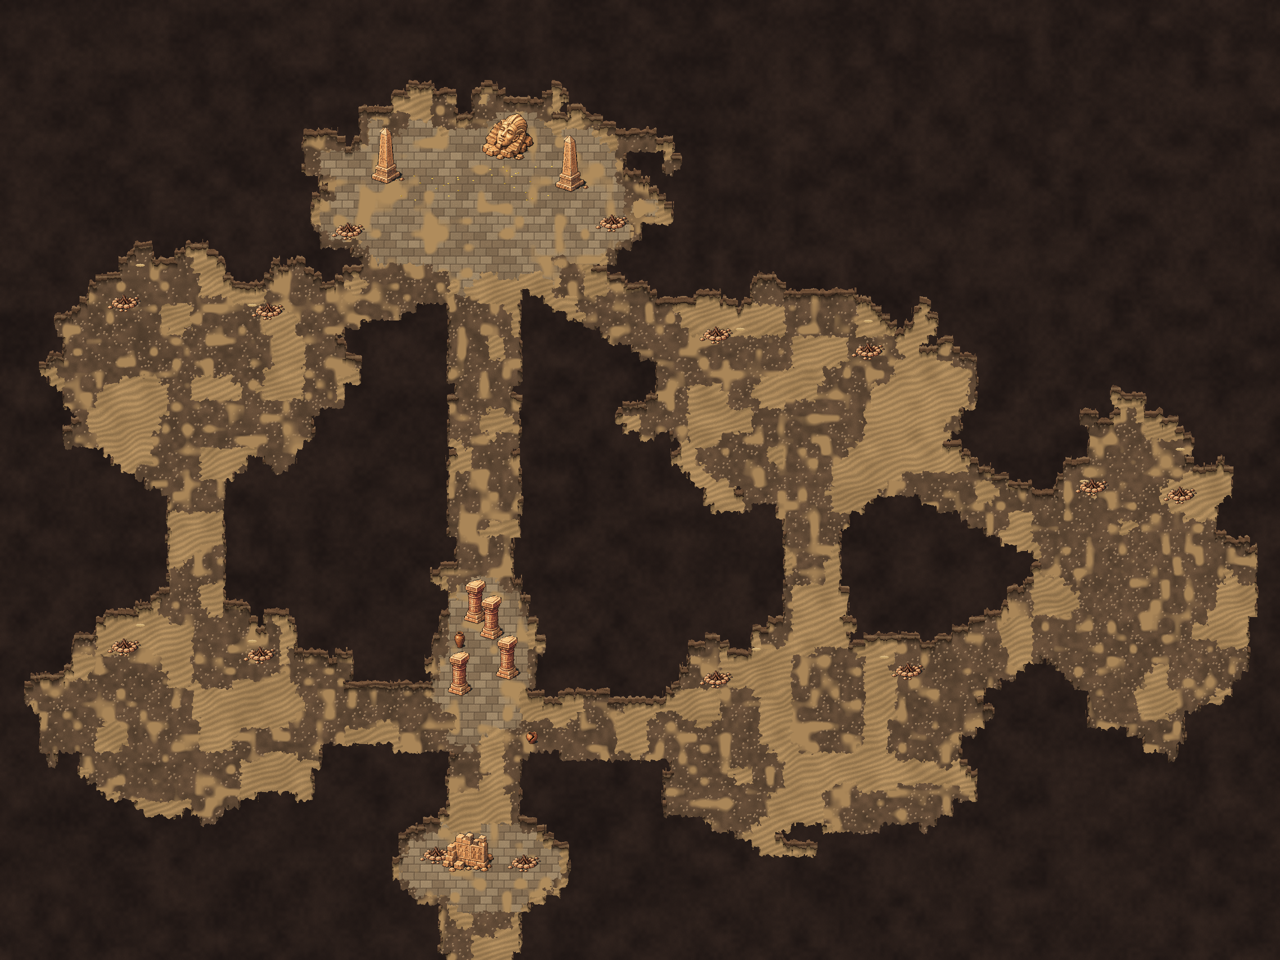
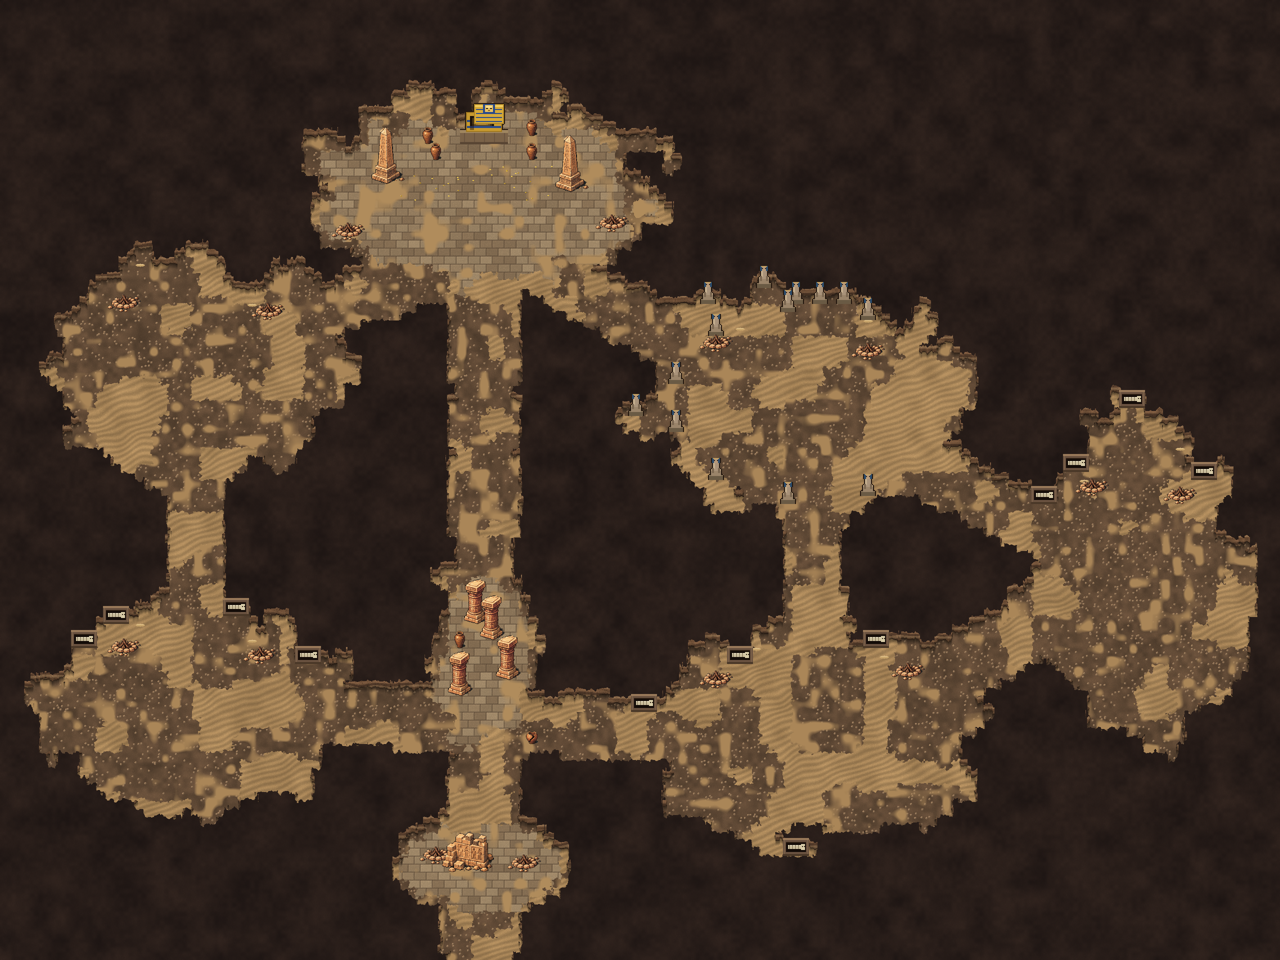
Tumba: nichos com múmias, sarcófago dourado, servos ajoelhados, hieróglifos brilhando, poeira dourada e névoa (em revisão)
Claude-Session: https://claude.ai/code/session_01DxMENvJSpBJLKVoAtLL83c

diff --git a/mapas/Mapa_TumbaReiAreia/tumba_rei_areia.js b/mapas/Mapa_TumbaReiAreia/tumba_rei_areia.js
@@ -115,10 +115,58 @@ function sandKingTomb(){
  /* Corredor dos Nichos: colunas coladas nas paredes e jarros funerários */
  for(const y of[74,86])for(const x of[54,66])aNear('column',x,y,{bw:0,fit:0,road:0,res:0});
  aNear('jar',54,80,{bw:0,road:0});aNear('jar_broken',66,92,{bw:0,road:0});
- /* Salão do Sarcófago: o sarcófago do rei (provisório: a cabeça de estátua) com um raio de luz, obeliscos e braseiros */
- aNear('statue_head',60,16,{fit:2,br:2,road:0});aNear('obelisk',46,20,{bw:1,road:0});aNear('obelisk',74,20,{bw:1,road:0});
- fire(42,30);fire(78,30);fx.beam=[[60*T+8,19*T]];dark.push([60*T+8,17*T,110,.7]);
+ /* Salão do Sarcófago: obeliscos e braseiros (o sarcófago, os vasos e o raio de luz vêm abaixo) */
+ aNear('obelisk',46,20,{bw:1,road:0});aNear('obelisk',74,20,{bw:1,road:0});
+ fire(42,30);fire(78,30);
  for(let k=0;k<30;k++){const x=(50+hq(k,201)*20)*T,y=(20+hq(k,202)*5)*T;og.fillStyle=hq(k,203)<.5?'#e8c040':'#b08820';og.fillRect(x|0,y|0,3,2);og.fillStyle='#fff0a0';og.fillRect(x|0,y|0,1,1)}
+ /* ---- desenhos da tumba (provisórios, até a arte do interior chegar): contorno escuro automático ---- */
+ const outl=(c)=>{const q=c.getContext('2d'),w=c.width,h=c.height,d=q.getImageData(0,0,w,h),D=d.data,o=new Uint8ClampedArray(D);
+  for(let y=0;y<h;y++)for(let x=0;x<w;x++){const k=(y*w+x)*4;if(D[k+3])continue;let n=false;
+   for(const [dx,dy] of[[1,0],[-1,0],[0,1],[0,-1]]){const X=x+dx,Y=y+dy;if(X>=0&&Y>=0&&X<w&&Y<h&&D[(Y*w+X)*4+3])n=true}
+   if(n){o[k]=34;o[k+1]=22;o[k+2]=14;o[k+3]=255}}d.data.set(o);q.putImageData(d,0,0);return c};
+ const box=(q,c,x,y,w,h)=>{q.fillStyle=c;q.fillRect(x,y,w,h)};
+ const up2=(c)=>{const [d,,q]=cmCv(c.width*2,c.height*2);q.imageSmoothingEnabled=false;q.drawImage(c,0,0,c.width*2,c.height*2);return d};
+ /* paredes do norte (face de rocha acima do chão) dentro de um salão: tiles de chão com rocha em cima, 3 de largura */
+ const paredes=(k,gap)=>{const h=HALLS[k],L=[];for(let y=2;y<H;y++)for(let x=2;x<W-2;x++){
+   if(Math.hypot((x-h[0])/(h[2]+2),(y-h[1])/(h[3]+2))>1)continue;
+   let ok=true;for(let i=-1;i<=1;i++){const n=y*W+x+i;if(!F[n]||F[n-W]||S[n])ok=false}if(!ok)continue;
+   if(L.every(p=>Math.abs(p[0]-x)>=gap||Math.abs(p[1]-y)>2))L.push([x,y])}return L};
+ /* 1) nichos funerários com múmias, escavados na face da parede (no ov, não ocupam chão) */
+ const NICHO=(()=>{const [c,,q]=cmCv(26,18);
+  box(q,'#6a5240',0,0,26,18);box(q,'#9a7a5a',0,0,26,2);box(q,'#4a3828',0,16,26,2);box(q,'#7a6048',1,2,1,14);box(q,'#7a6048',24,2,1,14);
+  box(q,'#140c08',3,4,20,10);box(q,'#2a1c12',3,4,20,1);
+  box(q,'#cfc2a0',5,7,14,4);box(q,'#e6dcc0',5,7,14,1);for(let i=6;i<18;i+=3)box(q,'#9a8c70',i,7,1,4);
+  box(q,'#d8cca8',18,6,4,6);box(q,'#2a1c12',19,8,1,1);box(q,'#2a1c12',21,8,1,1);return up2(outl(c))})();
+ for(const k of[2,3,6])for(const [x,y] of paredes(k,6).slice(0,4)){put(NICHO,x*T+8-26,(y+1)*T);for(let i=-1;i<=1;i++)S[y*W+x+i]=1}
+ /* 2) o sarcófago do rei: dourado, sobre um pedestal, a tampa meio aberta com brilho saindo de dentro; vasos dos lados */
+ {const [c,,q]=cmCv(48,44);
+  box(q,'#7a6248',0,30,48,14);box(q,'#a08660',0,30,48,3);box(q,'#5a4634',0,42,48,2);for(let x=4;x<48;x+=10)box(q,'#6a5440',x,33,1,9);
+  box(q,'#a07820',6,12,36,20);box(q,'#c89a30',7,13,34,18);box(q,'#1a120a',10,16,24,12);
+  for(let i=0;i<6;i++){box(q,'rgba(255,200,90,'+(0.18+i*0.06)+')',12+i*2,18+i,20-i*4,8-i*1.5)}
+  box(q,'#2a4a8a',7,26,34,2);box(q,'#2a4a8a',7,20,3,2);
+  box(q,'#b08828',14,4,30,20);box(q,'#d8aa38',15,5,28,18);box(q,'#f0cc60',15,5,28,2);
+  for(let y=9;y<22;y+=4)box(q,'#2a4a8a',16,y,26,1);
+  box(q,'#2a4a8a',23,4,12,9);box(q,'#e8c060',25,5,8,7);box(q,'#f6dc90',26,6,6,2);box(q,'#2a1c12',26,8,2,1);box(q,'#2a1c12',30,8,2,1);box(q,'#8a6020',28,10,2,1);
+  box(q,'rgba(30,18,10,.45)',10,24,4,6);
+  const C2=up2(outl(c)),sx=60*T+8,sb=18*T;put(C2,sx-48,sb);for(let y=16;y<=17;y++)for(let x=57;x<=63;x++)S[y*W+x]=1;
+  fx.sarc=[sx+4,sb-50];dark.push([sx,sb-48,140,.9]);fx.beam=[[sx,sb-10]];
+  aNear('jar',53,17,{bw:0,road:0});aNear('jar',67,17,{bw:0,road:0});aNear('jar',54,19,{bw:0,road:0});aNear('jar',66,19,{bw:0,road:0});
+  fx.gold=[];for(let k=0;k<30;k++)fx.gold.push([sx-70+hq(k,221)*140,sb-80+hq(k,222)*90,hq(k,223)*6.28])}
+ /* 3) hieróglifos que brilham na face das paredes (Salão do Sarcófago, Antecâmara e Corredor) */
+ fx.glyph=[];for(const k of[7,0,1,4])for(const [x,y] of paredes(k,2).slice(0,k==7?14:6))fx.glyph.push([x*T+2,y*T-12,hq(x,y)*6.28,(hq(y,x)*4)|0]);
+ /* 4) estátuas de servos ajoelhados encostadas nas paredes do Salão dos Servos, viradas para o sarcófago */
+ {const [c,,q]=cmCv(16,22);
+  box(q,'#6a5a44',1,17,14,5);box(q,'#8a765a',1,17,14,1);
+  box(q,'#9a846a',3,11,10,7);box(q,'#b49c7c',3,11,10,2);
+  box(q,'#a8927a',5,5,6,8);box(q,'#c4ae8e',5,5,2,6);box(q,'#7a6650',4,10,2,5);box(q,'#7a6650',10,10,2,5);
+  box(q,'#2a4a6a',4,0,8,5);box(q,'#c4a060',5,0,6,1);box(q,'#b89a7a',6,1,4,4);box(q,'#2a1c12',6,2,1,1);box(q,'#2a1c12',9,2,1,1);
+  const SV=up2(outl(c)),h=HALLS[5];
+  for(const [x,y] of paredes(5,3).slice(0,8)){put(SV,x*T+8-16,(y+1)*T);S[y*W+x]=1}
+  for(let k=0;k<8;k++){const a=-Math.PI*.15+k*Math.PI*1.3/7+Math.PI*.5,x=Math.round(h[0]+Math.cos(a)*h[2]*.86),y=Math.round(h[1]+Math.sin(a)*h[3]*.86),i=y*W+x;
+   if(!F[i]||S[i]||!F[i+1]||!F[i-1])continue;put(SV,x*T+8-16,(y+1)*T);S[i]=1}}
+ /* 7) névoa baixa e fria nas criptas (Cripta Profunda e Câmaras Funerárias) */
+ fx.fog=[];for(const [k,n] of[[6,30],[2,12],[3,12]]){const h=HALLS[k];for(let q=0;q<n*3&&fx.fog.length<70;q++){const x=h[0]+(hq(q,k*31)-.5)*2*h[2]*.85,y=h[1]+(hq(k*31,q)-.5)*2*h[3]*.85;
+  if(F[(y|0)*W+(x|0)])fx.fog.push([x*T,y*T,hq(q,k)*6.28])}}
  /* 5 salões de caça (2 a 6): vazios no meio; braseiros no alto; areia escorrendo de fendas do teto */
  for(let k=2;k<=6;k++){const h=HALLS[k];
   fire(Math.round(h[0]-h[2]*.55),Math.round(h[1]-h[3]*.6));fire(Math.round(h[0]+h[2]*.55),Math.round(h[1]-h[3]*.6));

diff --git a/visualizador_ferramentas/gera_cavernas.py b/visualizador_ferramentas/gera_cavernas.py
@@ -170,10 +170,58 @@ TUMBA = dict(
  /* Corredor dos Nichos: colunas coladas nas paredes e jarros funerários */
  for(const y of[74,86])for(const x of[54,66])aNear('column',x,y,{bw:0,fit:0,road:0,res:0});
  aNear('jar',54,80,{bw:0,road:0});aNear('jar_broken',66,92,{bw:0,road:0});
- /* Salão do Sarcófago: o sarcófago do rei (provisório: a cabeça de estátua) com um raio de luz, obeliscos e braseiros */
- aNear('statue_head',60,16,{fit:2,br:2,road:0});aNear('obelisk',46,20,{bw:1,road:0});aNear('obelisk',74,20,{bw:1,road:0});
- fire(42,30);fire(78,30);fx.beam=[[60*T+8,19*T]];dark.push([60*T+8,17*T,110,.7]);
+ /* Salão do Sarcófago: obeliscos e braseiros (o sarcófago, os vasos e o raio de luz vêm abaixo) */
+ aNear('obelisk',46,20,{bw:1,road:0});aNear('obelisk',74,20,{bw:1,road:0});
+ fire(42,30);fire(78,30);
  for(let k=0;k<30;k++){const x=(50+hq(k,201)*20)*T,y=(20+hq(k,202)*5)*T;og.fillStyle=hq(k,203)<.5?'#e8c040':'#b08820';og.fillRect(x|0,y|0,3,2);og.fillStyle='#fff0a0';og.fillRect(x|0,y|0,1,1)}
+ /* ---- desenhos da tumba (provisórios, até a arte do interior chegar): contorno escuro automático ---- */
+ const outl=(c)=>{const q=c.getContext('2d'),w=c.width,h=c.height,d=q.getImageData(0,0,w,h),D=d.data,o=new Uint8ClampedArray(D);
+  for(let y=0;y<h;y++)for(let x=0;x<w;x++){const k=(y*w+x)*4;if(D[k+3])continue;let n=false;
+   for(const [dx,dy] of[[1,0],[-1,0],[0,1],[0,-1]]){const X=x+dx,Y=y+dy;if(X>=0&&Y>=0&&X<w&&Y<h&&D[(Y*w+X)*4+3])n=true}
+   if(n){o[k]=34;o[k+1]=22;o[k+2]=14;o[k+3]=255}}d.data.set(o);q.putImageData(d,0,0);return c};
+ const box=(q,c,x,y,w,h)=>{q.fillStyle=c;q.fillRect(x,y,w,h)};
+ const up2=(c)=>{const [d,,q]=cmCv(c.width*2,c.height*2);q.imageSmoothingEnabled=false;q.drawImage(c,0,0,c.width*2,c.height*2);return d};
+ /* paredes do norte (face de rocha acima do chão) dentro de um salão: tiles de chão com rocha em cima, 3 de largura */
+ const paredes=(k,gap)=>{const h=HALLS[k],L=[];for(let y=2;y<H;y++)for(let x=2;x<W-2;x++){
+   if(Math.hypot((x-h[0])/(h[2]+2),(y-h[1])/(h[3]+2))>1)continue;
+   let ok=true;for(let i=-1;i<=1;i++){const n=y*W+x+i;if(!F[n]||F[n-W]||S[n])ok=false}if(!ok)continue;
+   if(L.every(p=>Math.abs(p[0]-x)>=gap||Math.abs(p[1]-y)>2))L.push([x,y])}return L};
+ /* 1) nichos funerários com múmias, escavados na face da parede (no ov, não ocupam chão) */
+ const NICHO=(()=>{const [c,,q]=cmCv(26,18);
+  box(q,'#6a5240',0,0,26,18);box(q,'#9a7a5a',0,0,26,2);box(q,'#4a3828',0,16,26,2);box(q,'#7a6048',1,2,1,14);box(q,'#7a6048',24,2,1,14);
+  box(q,'#140c08',3,4,20,10);box(q,'#2a1c12',3,4,20,1);
+  box(q,'#cfc2a0',5,7,14,4);box(q,'#e6dcc0',5,7,14,1);for(let i=6;i<18;i+=3)box(q,'#9a8c70',i,7,1,4);
+  box(q,'#d8cca8',18,6,4,6);box(q,'#2a1c12',19,8,1,1);box(q,'#2a1c12',21,8,1,1);return up2(outl(c))})();
+ for(const k of[2,3,6])for(const [x,y] of paredes(k,6).slice(0,4)){put(NICHO,x*T+8-26,(y+1)*T);for(let i=-1;i<=1;i++)S[y*W+x+i]=1}
+ /* 2) o sarcófago do rei: dourado, sobre um pedestal, a tampa meio aberta com brilho saindo de dentro; vasos dos lados */
+ {const [c,,q]=cmCv(48,44);
+  box(q,'#7a6248',0,30,48,14);box(q,'#a08660',0,30,48,3);box(q,'#5a4634',0,42,48,2);for(let x=4;x<48;x+=10)box(q,'#6a5440',x,33,1,9);
+  box(q,'#a07820',6,12,36,20);box(q,'#c89a30',7,13,34,18);box(q,'#1a120a',10,16,24,12);
+  for(let i=0;i<6;i++){box(q,'rgba(255,200,90,'+(0.18+i*0.06)+')',12+i*2,18+i,20-i*4,8-i*1.5)}
+  box(q,'#2a4a8a',7,26,34,2);box(q,'#2a4a8a',7,20,3,2);
+  box(q,'#b08828',14,4,30,20);box(q,'#d8aa38',15,5,28,18);box(q,'#f0cc60',15,5,28,2);
+  for(let y=9;y<22;y+=4)box(q,'#2a4a8a',16,y,26,1);
+  box(q,'#2a4a8a',23,4,12,9);box(q,'#e8c060',25,5,8,7);box(q,'#f6dc90',26,6,6,2);box(q,'#2a1c12',26,8,2,1);box(q,'#2a1c12',30,8,2,1);box(q,'#8a6020',28,10,2,1);
+  box(q,'rgba(30,18,10,.45)',10,24,4,6);
+  const C2=up2(outl(c)),sx=60*T+8,sb=18*T;put(C2,sx-48,sb);for(let y=16;y<=17;y++)for(let x=57;x<=63;x++)S[y*W+x]=1;
+  fx.sarc=[sx+4,sb-50];dark.push([sx,sb-48,140,.9]);fx.beam=[[sx,sb-10]];
+  aNear('jar',53,17,{bw:0,road:0});aNear('jar',67,17,{bw:0,road:0});aNear('jar',54,19,{bw:0,road:0});aNear('jar',66,19,{bw:0,road:0});
+  fx.gold=[];for(let k=0;k<30;k++)fx.gold.push([sx-70+hq(k,221)*140,sb-80+hq(k,222)*90,hq(k,223)*6.28])}
+ /* 3) hieróglifos que brilham na face das paredes (Salão do Sarcófago, Antecâmara e Corredor) */
+ fx.glyph=[];for(const k of[7,0,1,4])for(const [x,y] of paredes(k,2).slice(0,k==7?14:6))fx.glyph.push([x*T+2,y*T-12,hq(x,y)*6.28,(hq(y,x)*4)|0]);
+ /* 4) estátuas de servos ajoelhados encostadas nas paredes do Salão dos Servos, viradas para o sarcófago */
+ {const [c,,q]=cmCv(16,22);
+  box(q,'#6a5a44',1,17,14,5);box(q,'#8a765a',1,17,14,1);
+  box(q,'#9a846a',3,11,10,7);box(q,'#b49c7c',3,11,10,2);
+  box(q,'#a8927a',5,5,6,8);box(q,'#c4ae8e',5,5,2,6);box(q,'#7a6650',4,10,2,5);box(q,'#7a6650',10,10,2,5);
+  box(q,'#2a4a6a',4,0,8,5);box(q,'#c4a060',5,0,6,1);box(q,'#b89a7a',6,1,4,4);box(q,'#2a1c12',6,2,1,1);box(q,'#2a1c12',9,2,1,1);
+  const SV=up2(outl(c)),h=HALLS[5];
+  for(const [x,y] of paredes(5,3).slice(0,8)){put(SV,x*T+8-16,(y+1)*T);S[y*W+x]=1}
+  for(let k=0;k<8;k++){const a=-Math.PI*.15+k*Math.PI*1.3/7+Math.PI*.5,x=Math.round(h[0]+Math.cos(a)*h[2]*.86),y=Math.round(h[1]+Math.sin(a)*h[3]*.86),i=y*W+x;
+   if(!F[i]||S[i]||!F[i+1]||!F[i-1])continue;put(SV,x*T+8-16,(y+1)*T);S[i]=1}}
+ /* 7) névoa baixa e fria nas criptas (Cripta Profunda e Câmaras Funerárias) */
+ fx.fog=[];for(const [k,n] of[[6,30],[2,12],[3,12]]){const h=HALLS[k];for(let q=0;q<n*3&&fx.fog.length<70;q++){const x=h[0]+(hq(q,k*31)-.5)*2*h[2]*.85,y=h[1]+(hq(k*31,q)-.5)*2*h[3]*.85;
+  if(F[(y|0)*W+(x|0)])fx.fog.push([x*T,y*T,hq(q,k)*6.28])}}
  /* 5 salões de caça (2 a 6): vazios no meio; braseiros no alto; areia escorrendo de fendas do teto */
  for(let k=2;k<=6;k++){const h=HALLS[k];
   fire(Math.round(h[0]-h[2]*.55),Math.round(h[1]-h[3]*.6));fire(Math.round(h[0]+h[2]*.55),Math.round(h[1]-h[3]*.6));

diff --git a/mapas/Mapa_TumbaReiAreia/MAPA.md b/mapas/Mapa_TumbaReiAreia/MAPA.md
@@ -30,9 +30,18 @@
 | 5 | Salão das Oferendas (24, 46), **caça** | idem |
 | 6 | Salão dos Servos (100, 50), **caça** | idem |
 | 7 | Cripta Profunda (141, 72), **caça** | idem, a mais a leste |
-| 8 | Salão do Sarcófago (60, 24) | o sarcófago do rei (provisório: a cabeça de estátua) com um raio de luz caindo do teto, dois obeliscos, braseiros e moedas de ouro no chão |
+| 8 | Salão do Sarcófago (60, 24) | o **sarcófago dourado** do rei sobre um pedestal, com a tampa meio aberta e brilho saindo de dentro, um raio de luz caindo do teto, quatro vasos, dois obeliscos, braseiros, moedas e poeira dourada no ar |
 
 Os 5 salões de caça são ligados em anel pelos dois lados do corredor central.
+
+## O que tem na tumba (sem atrapalhar a caça)
+
+Desenhados no código, provisórios até a arte do interior (`PROMPT_ASSETS_INTERIOR_CAVERNAS.md`, seção da Tumba):
+- **Nichos funerários com múmias** encostados nas paredes do norte das Câmaras Funerárias e da Cripta Profunda (colisão no pé).
+- **O sarcófago dourado** no Salão do Sarcófago (colisão no pedestal), com os vasos dos lados.
+- **Estátuas de servos ajoelhados** nas paredes e na beirada do Salão dos Servos (colisão no pé).
+- **Hieróglifos dourados** que acendem e apagam devagar na face das paredes (`fx.glyph`, camada de luz).
+- **Poeira dourada** subindo em volta do sarcófago (`fx.gold`) e **névoa baixa e fria** nas criptas (`fx.fog`).
 
 ## Destinos sugeridos para o teleporte
 

diff --git a/mapas/Mapa_AcampamentoNomades/PROMPT_ASSETS_INTERIOR_CAVERNAS.md b/mapas/Mapa_AcampamentoNomades/PROMPT_ASSETS_INTERIOR_CAVERNAS.md
@@ -32,6 +32,11 @@ jarros para espalhar pelo chão. O jogo é plano: nada de escadas, rampas ou pla
 > - **Gruta:** **formação de rocha** de arenito em camadas encostada na parede (2 tamanhos); **estalagmite** alta
 >   (cerca de 3 tiles de altura); **cristal âmbar** grande brilhando saindo da rocha; **o marco da gruta**: um poço natural
 >   de areia escorrendo de uma fenda do teto, com um feixe de luz fraca (cerca de 5 tiles de largura);
+> - **Tumba do Rei:** **sarcófago dourado** de um rei antigo (cerca de 6 tiles de largura e 5 de altura) sobre um
+>   pedestal de pedra, pintado com faixas azuis, a tampa com o rosto do rei **meio aberta** e um brilho quente saindo de
+>   dentro (sem halo fora); **nicho funerário** para encostar na parede: moldura de pedra com uma **múmia enfaixada** deitada
+>   dentro (cerca de 3 tiles de largura e 2 de altura, 2 variações); **estátua de servo ajoelhado** de pedra com toucado
+>   listrado, de frente (cerca de 2 tiles de largura e 3 de altura); **vasos canópicos** (4, com tampas de cabeças humanas);
 > - **Luz:** **tocha de parede** num suporte de ferro (esta é a peça mais usada; desenhe 2 variações);
 > - **Exploradores** (só na entrada): saco de dormir enrolado, caixote aberto, lampião, picareta e pá encostadas.
 
